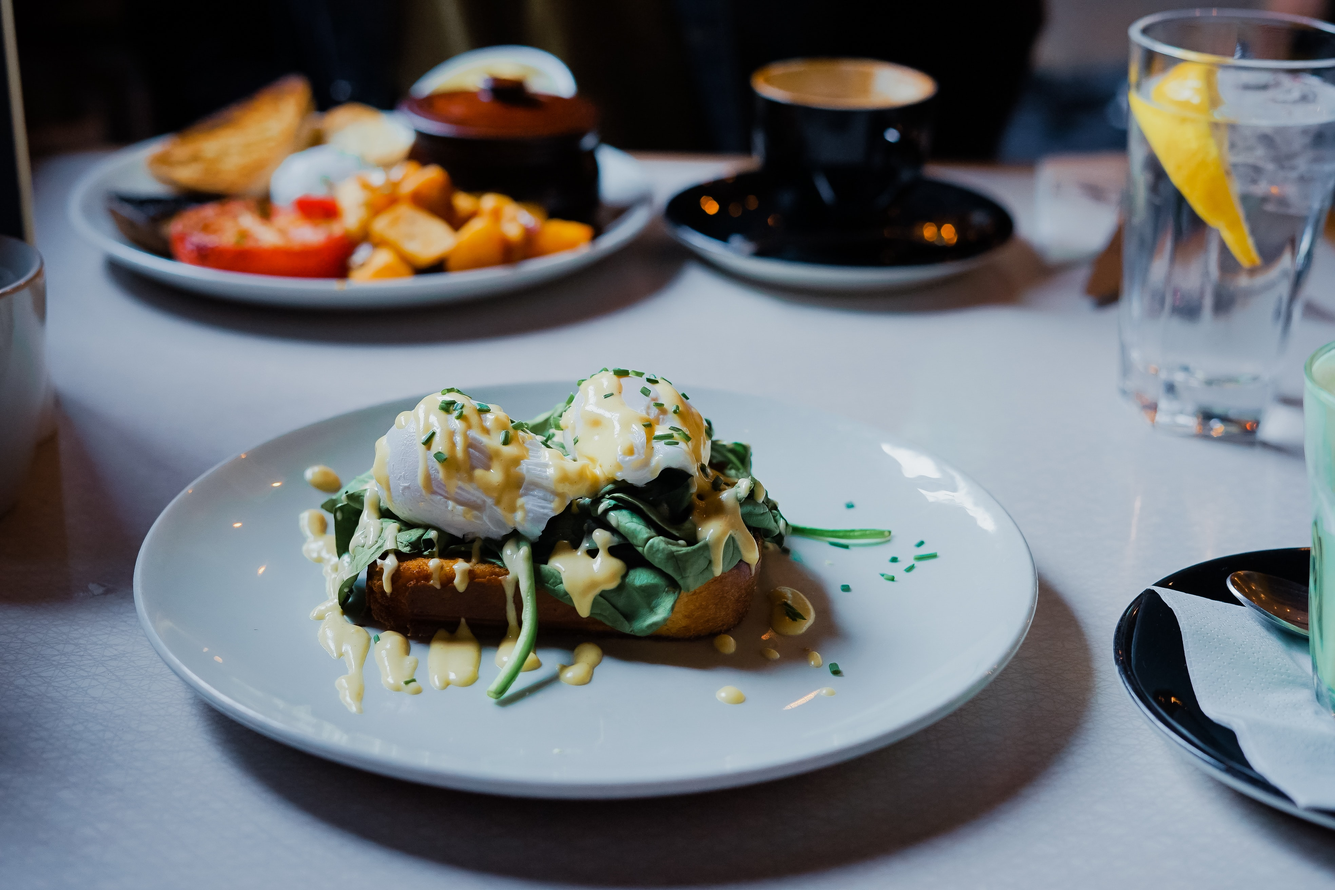
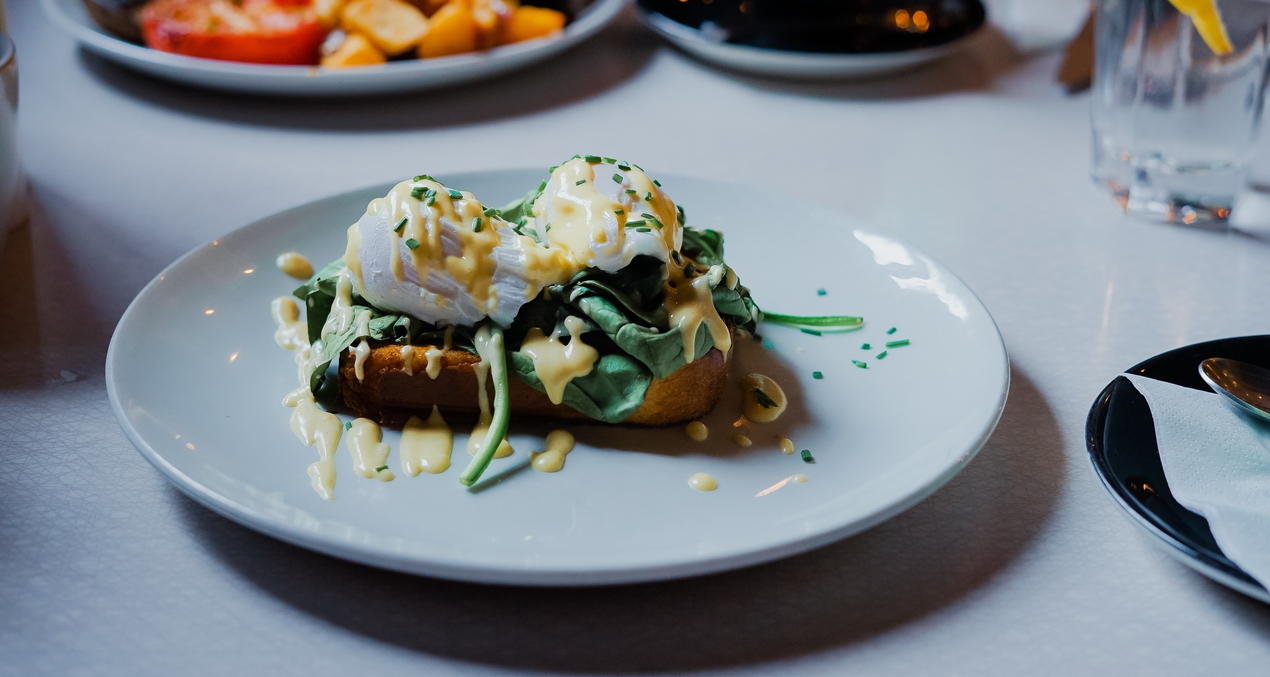
Correction de mon code du projet3

diff --git a/css/index.css b/css/index.css
@@ -63,7 +63,8 @@ li
 
 #icone_et_paris_belleville_background
 {
-    background-color: rgb(115,115,115);
+    background-color: #eaeaea;
+    /*background-color: rgb(115,115,115);*/
     display:flex;
     flex-direction:row;
     justify-content: space-around;
@@ -80,7 +81,7 @@ li
 
 #texte_menu_et_bouton_explorer_background
 {
-    background-color:rgb(199,199,199);
+    background-color: #f6f6f6;
     padding-top:20px;
 }
 
@@ -93,6 +94,7 @@ li
 
 #paragraphe_decouvrez_des_restaurants
 {
+    color: #6b6b6b;
     text-align: center;
 }
 
@@ -129,7 +131,7 @@ li
 
 #alignement_icone_texte
 {
-    background-color:rgb(199,199,199);
+    background-color: #f6f6f6;
     display:flex;
     flex-direction: row;
     align-items: center;
@@ -140,7 +142,7 @@ li
 
 #alignement_icone_texte_2
 {
-    background-color:rgb(199,199,199);
+    background-color:#f6f6f6;
     display:flex;
     flex-direction: row;
     align-items: center;
@@ -151,7 +153,7 @@ li
 
 #alignement_icone_texte_3
 {
-    background-color:rgb(199,199,199);
+    background-color:#f6f6f6;
     display:flex;
     flex-direction: row;
     align-items: center;
@@ -218,7 +220,7 @@ input::placeholder /*Utilisation du pseudo-élément ::placeholder sur les balis
 
 #champ_recherche
 {
-    background-color: rgb(115,115,115);
+    background-color: #eaeaea;
     border: none;
     font-size: 18px;
 }
@@ -232,7 +234,7 @@ input::placeholder /*Utilisation du pseudo-élément ::placeholder sur les balis
 
 main
 {
-    background-color:rgb(199,199,199);
+    background-color: #f6f6f6;
     padding-left:20px;
     padding-right: 20px;
     padding-top:20px;
@@ -257,7 +259,7 @@ main
 {
     width:100%; /*L'image prend la largeur de son élément parent*/
     height:100%; /*L'image prend la hauteur de son élément parent*/
-    object-fit: cover; /*L'image est dimensionnée pour maintenir son ratio d'affichage toute en remplissant toute la boîte de contenu*/
+    /*object-fit: cover; L'image est dimensionnée pour maintenir son ratio d'affichage toute en remplissant toute la boîte de contenu*/
 }
 
 .carte_corps
@@ -309,14 +311,14 @@ main
 .element_vert
 {
     background-color: #99E2D0;
-    color:green;
+    color: #1b9779;
     font-weight: bold;
-    border-radius: 5px 5px 5px 5px;
+    border-radius: 3px 3px 3px 3px;
     position:relative; /*l'élément 'element_vert' est définit en position relative pour pouvoir le postionner dans son conteneur parent qui est .carte_image*/
-    width:20%; /*L'élément a une largeur égale à 20% de la largeur de son élement parent .carte_image*/
-    height:15%; /*L'élément a une hauteur égale à 15% de la hauteur de son élement parent .carte_image*/
-    left: 76%; /*L'élément est décalé à droite de sa position initiale avec un décalage correspondant à 76% de la largeur de son élément parent .carte_image*/
-    bottom:92%; /*L'élément est décalé vers le haut de sa position initiale avec un décalage correspondant à 92% de la hauteur de son élément parent .carte_image*/
+    width:22%; /*L'élément a une largeur égale à 20% de la largeur de son élement parent .carte_image*/
+    height:17%; /*L'élément a une hauteur égale à 17% de la hauteur de son élement parent .carte_image*/
+    left: 74%; /*L'élément est décalé à droite de sa position initiale avec un décalage correspondant à 74% de la largeur de son élément parent .carte_image*/
+    bottom:95%; /*L'élément est décalé vers le haut de sa position initiale avec un décalage correspondant à 95% de la hauteur de son élément parent .carte_image*/
     display:flex;
     flex-direction: row; /*Permet de mettre l'élement <p> avec le texte 'Nouveau' sur une ligne à l'horizontal*/ 
     justify-content: space-around; /*Centrage de l'élement <p> avec le texte 'Nouveau' sur l'axe principale horizontal*/
@@ -325,13 +327,16 @@ main
 
 .carte_icone_coeur
 {
-    color: rgb(115,115,115);
+    -webkit-text-stroke-color: black;
+    -webkit-text-stroke-width:thin;
+    /*color: rgb(115,115,115);*/
+    color:white;
 }
 
 @keyframes remplissage_coeur /*Keyframes pour l'animation consistant à remplir le coeur avec la couleur violet*/
 {
     0%{ /*Début de l'animation*/
-        color: rgb(115,115,115);
+        color: white;
     }
     100%{ /*Fin de l'animation*/
         color: #9356DC;    
@@ -349,7 +354,7 @@ main
 
 footer
 {
-    background-color: rgb(61,61,61);
+    background-color: #353535;
     padding-top: 5px;
     padding-left: 20px;
     padding-bottom: 10px;

diff --git a/css/index_2.css b/css/index_2.css
@@ -93,14 +93,14 @@ header
 {
     width: 100%;
     height: 100%;
-    object-fit: cover; /*L'image est dimensionnée pour maintenir son ratio d'affichage toute en remplissant toute la boîte de contenu*/
+    /*object-fit: cover; L'image est dimensionnée pour maintenir son ratio d'affichage toute en remplissant toute la boîte de contenu*/
 }
 
     /*---------------------------------------------------------Main---------------------------------------------------------*/
 
 main
 {
-    background-color:rgb(199,199,199);
+    background-color: #f6f6f6;
     border-radius: 35px 35px 0px 0px;
     padding-left:20px;
     padding-right: 20px;
@@ -122,13 +122,15 @@ main
 
 .carte_icone_coeur
 {
-    color: white;
+    -webkit-text-stroke-color: black; /*Contour de l'icône coeur en noir*/
+    -webkit-text-stroke-width:thin; /*Epaisseur du contour de l'icône coeur*/
+    color: #f6f6f6;
 }
 
 @keyframes remplissage_coeur /*Keyframes pour l'animation consistant à remplir le coeur avec la couleur violet*/
 {
     0%{ /*Début de l'animation*/
-        color: white;
+        color: #f6f6f6;
     }
     100%{ /*Fin de l'animation*/
         color: #9356DC;    
@@ -258,7 +260,7 @@ main
 .texte_complementaire_et_prix_element_de_menu
 {
     position:relative; /*L'élement est défini en position relative donc il est déplacé par rapport à sa position initiale dans le flux*/
-    bottom: 140%; /*L'élément est positionné en haut de sa position initiale à une hauteur valant 140% la hauteur de son élément parent*/
+    bottom: 150%; /*L'élément est positionné en haut de sa position initiale à une hauteur valant 150% la hauteur de son élément parent*/
     display:flex; /*Utilisation de flex, le texte complémentaire et le prix sont mis sur une même ligne*/
     justify-content: space-between; /*Le texte complémentaire et le prix sont espacé sur l'axe principal horizontal*/
     padding-left: 15px; /*Permet de positionner le texte complémentaire*/
@@ -308,7 +310,7 @@ main
 .texte_presentation /*Sélecteur sur le titre d'une entrée, d'un plat ou d'un dessert*/
 {
     margin-left: 15px;
-    font-size: 22px;
+    font-size: 20px;
     font-weight: bold;
 }
 
@@ -365,7 +367,7 @@ main
 
 footer
 {
-    background-color: rgb(61,61,61);
+    background-color: #353535;
     padding-top: 5px;
     padding-left: 20px;
     padding-bottom: 10px;

diff --git a/Menu_la_palette_du_gout.html b/Menu_la_palette_du_gout.html
@@ -34,7 +34,7 @@
                 </div>
             </div>
             <div id="conteneur_image_du_header">
-                <img src="images/La_palette_du_gout.jpg" alt="La palette du goût" />    
+                <img src="images/La_palette_du_gout_2.jpg" alt="La palette du goût" />    
             </div>
         </header>
         <!--Contenu principal de la page-->
@@ -45,7 +45,7 @@
             </div>
             <div>
                 <div>
-                    <p class="texte_entrees_plats_desserts"><span class="barre_verte_entrees_plats_desserts">ENTR</span>EES</p>
+                    <p class="texte_entrees_plats_desserts"><span class="barre_verte_entrees_plats_desserts">ENTR</span>ÉES</p>
                     <ul class="liste_entrees_plats_desserts">
                         <li>
                             <div class="texte_presentation_et_prix">

diff --git a/Menu_le_delice_des_sens.html b/Menu_le_delice_des_sens.html
@@ -34,7 +34,7 @@
                 </div>
             </div>
             <div id="conteneur_image_du_header">
-                <img src="images/Le_delice_des_sens.jpg" alt="Le délice des sens" />    
+                <img src="images/Le_delice_des_sens_2.jpg" alt="Le délice des sens" />    
             </div>
         </header>
         <!--Contenu principal de la page-->
@@ -45,7 +45,7 @@
             </div>
             <div>
                 <div>
-                    <p class="texte_entrees_plats_desserts"><span class="barre_verte_entrees_plats_desserts">ENTR</span>EES</p>
+                    <p class="texte_entrees_plats_desserts"><span class="barre_verte_entrees_plats_desserts">ENTR</span>ÉES</p>
                     <ul class="liste_entrees_plats_desserts">
                         <li>
                             <div class="texte_presentation_et_prix">

diff --git a/Menu_la_note_enchantee.html b/Menu_la_note_enchantee.html
@@ -34,7 +34,7 @@
                 </div>
             </div>
             <div id="conteneur_image_du_header">
-                <img src="images/La_note_enchantee.jpg" alt="La note enchantée" />    
+                <img src="images/La_note_enchantee_2.jpg" alt="La note enchantée" />    
             </div>
         </header>
         <!--Contenu principal de la page-->
@@ -45,7 +45,7 @@
             </div>
             <div>
                 <div>
-                    <p class="texte_entrees_plats_desserts"><span class="barre_verte_entrees_plats_desserts">ENTR</span>EES</p>
+                    <p class="texte_entrees_plats_desserts"><span class="barre_verte_entrees_plats_desserts">ENTR</span>ÉES</p>
                     <ul class="liste_entrees_plats_desserts">
                         <li>
                             <div class="texte_presentation_et_prix">

diff --git a/Menu_a_la_francaise.html b/Menu_a_la_francaise.html
@@ -34,7 +34,7 @@
                 </div>
             </div>
             <div id="conteneur_image_du_header">
-                <img src="images/A_la_francaise.jpg" alt="À la française" />    
+                <img src="images/A_la_francaise_2.jpg" alt="À la française" />    
             </div>
         </header>
         <!--Contenu principal de la page-->
@@ -45,7 +45,7 @@
             </div>
             <div>
                 <div>
-                    <p class="texte_entrees_plats_desserts"><span class="barre_verte_entrees_plats_desserts">ENTR</span>EES</p>
+                    <p class="texte_entrees_plats_desserts"><span class="barre_verte_entrees_plats_desserts">ENTR</span>ÉES</p>
                     <ul class="liste_entrees_plats_desserts">
                         <li>
                             <div class="texte_presentation_et_prix">
